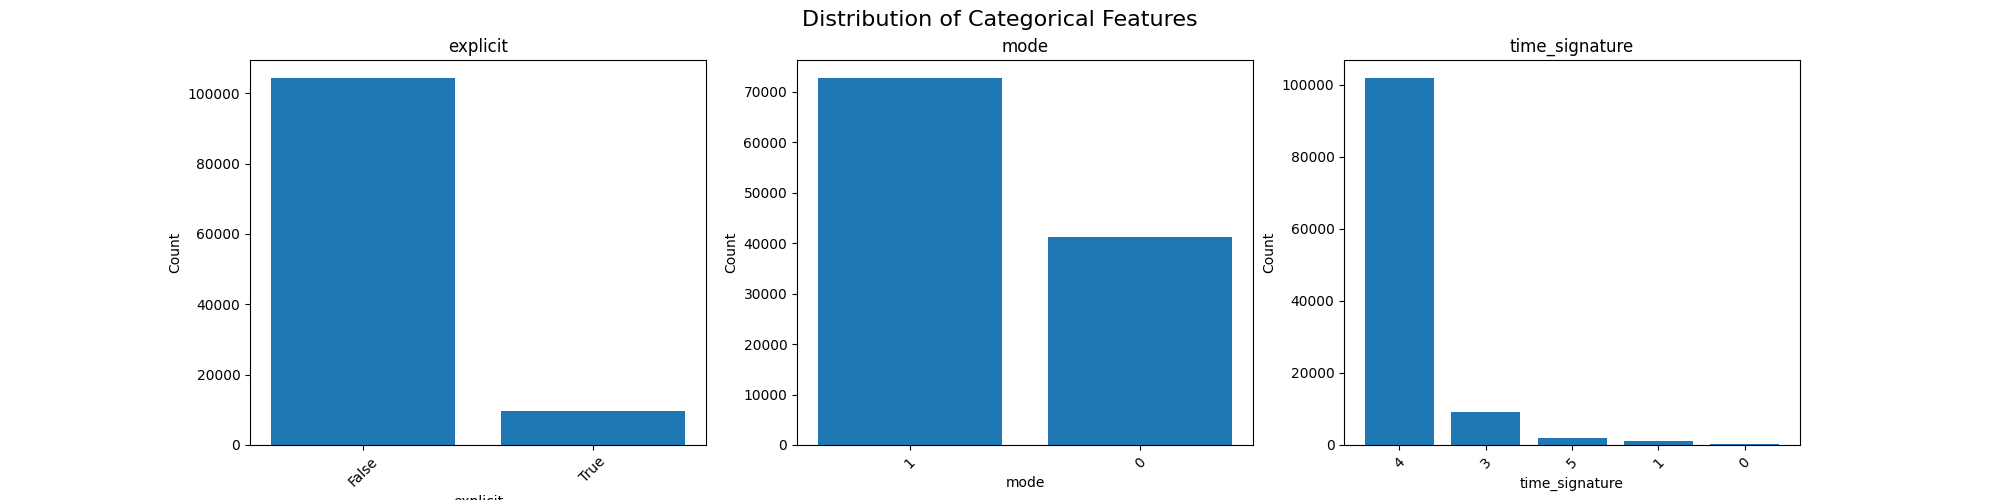
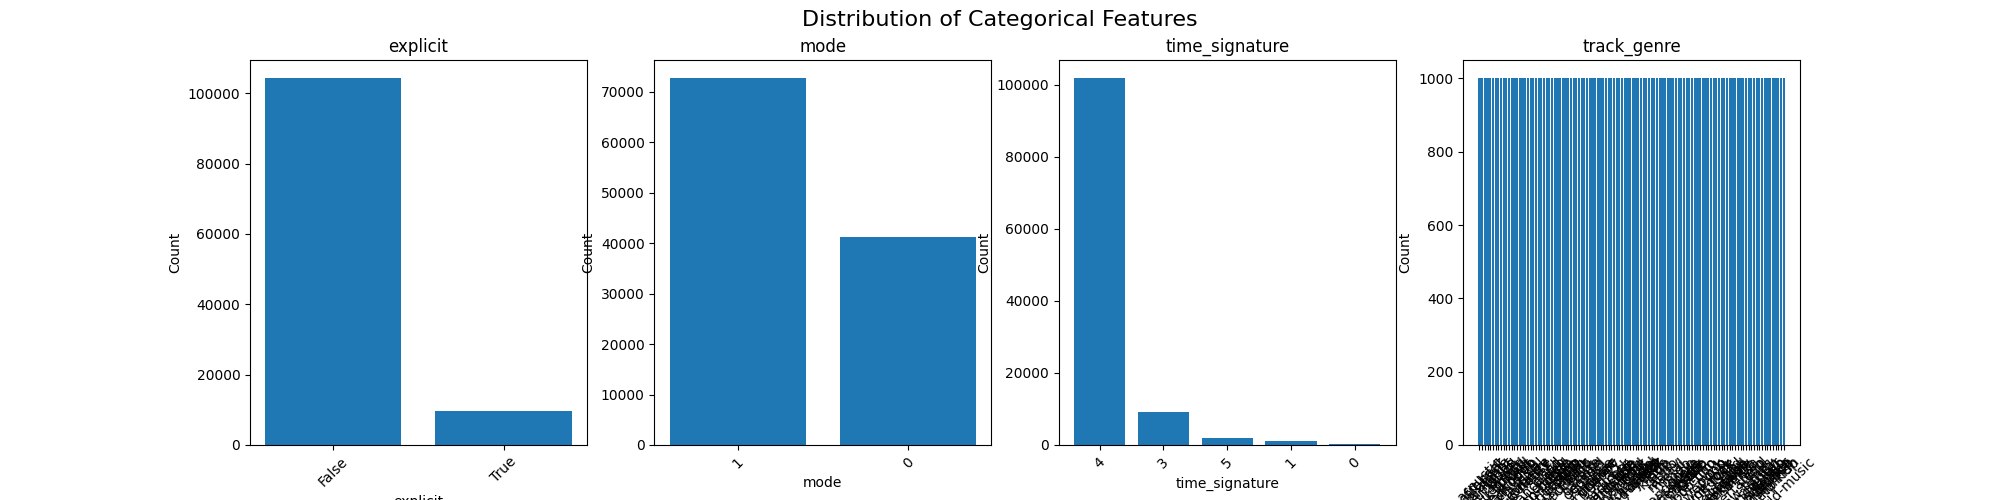
feat: plots added

diff --git a/assignments/1/a1.py b/assignments/1/a1.py
@@ -6,38 +6,52 @@ from models.knn.knn_suboptimal import KNN
 from models.linear_regression.linear_regression import PolynomialRegression
 from performance_measures.classification_metrics import Metrics
 
+
 def visualization_spotify():
-    df = pd.read_csv('data/interim/1/spotify/step1_drop_unnamed.csv')
-    numerical_features = ['popularity', 'duration_ms', 'danceability', 'energy', 'key', 'loudness', 'speechiness', 'acousticness', 'instrumentalness', 'liveness', 'valence', 'tempo']
-    categorical_features = ['explicit', 'mode', 'time_signature']
+    df = pd.read_csv("data/interim/1/spotify/step1_drop_unnamed.csv")
+    numerical_features = [
+        "popularity",
+        "duration_ms",
+        "danceability",
+        "energy",
+        "key",
+        "loudness",
+        "speechiness",
+        "acousticness",
+        "instrumentalness",
+        "liveness",
+        "valence",
+        "tempo",
+    ]
+    categorical_features = ["explicit", "mode", "time_signature", "track_genre"]
 
     # Histograms
     fig, axes = plt.subplots(4, 3, figsize=(20, 20))
-    fig.suptitle('Distribution of Numerical Features', fontsize=16)
+    fig.suptitle("Distribution of Numerical Features", fontsize=16)
     for i, feature in enumerate(numerical_features):
         row = i // 3
         col = i % 3
-        axes[row, col].hist(df[feature], bins=30, edgecolor='black')
+        axes[row, col].hist(df[feature], bins=30, edgecolor="black")
         axes[row, col].set_title(feature)
         axes[row, col].set_xlabel(feature)
-        axes[row, col].set_ylabel('Frequency')
-    plt.savefig('assignments/1/figures/histograms.png')
+        axes[row, col].set_ylabel("Frequency")
+    plt.savefig("assignments/1/figures/histograms.png")
 
     # Bar plots
-    fig, axes = plt.subplots(1, 3, figsize=(20, 5))
-    fig.suptitle('Distribution of Categorical Features', fontsize=16)
+    fig, axes = plt.subplots(1, 4, figsize=(20, 5))
+    fig.suptitle("Distribution of Categorical Features", fontsize=16)
     for i, feature in enumerate(categorical_features):
         value_counts = df[feature].value_counts()
         axes[i].bar(value_counts.index.astype(str), value_counts.values)
         axes[i].set_title(feature)
         axes[i].set_xlabel(feature)
-        axes[i].set_ylabel('Count')
-        axes[i].tick_params(axis='x', rotation=45)
-    plt.savefig('assignments/1/figures/barplots.png')
-    
+        axes[i].set_ylabel("Count")
+        axes[i].tick_params(axis="x", rotation=45)
+    plt.savefig("assignments/1/figures/barplots.png")
+
     # Violin plots
     fig, axes = plt.subplots(4, 3, figsize=(20, 20))
-    fig.suptitle('Violin Plots of Numerical Features', fontsize=16)
+    fig.suptitle("Violin Plots of Numerical Features", fontsize=16)
     for i, feature in enumerate(numerical_features):
         row = i // 3
         col = i % 3
@@ -45,38 +59,50 @@ def visualization_spotify():
         axes[row, col].set_title(feature)
         axes[row, col].set_xticks([])
     plt.tight_layout()
-    plt.savefig('assignments/1/figures/violin_plots.png')
+    plt.savefig("assignments/1/figures/violin_plots.png")
     plt.close()
 
     # Pair plots
-    pd.plotting.scatter_matrix(df[numerical_features], figsize=(80, 80), diagonal='hist', alpha=0.08)
-    plt.suptitle('Scatter Plot Matrix of Numerical Features', fontsize=30)
+    scatter = pd.plotting.scatter_matrix(
+        df[numerical_features], figsize=(40, 40), diagonal="hist", alpha=0.15
+    )
+    for ax in scatter.ravel():
+        ax.set_xlabel(ax.get_xlabel(), fontsize=20)
+        ax.set_ylabel(ax.get_ylabel(), fontsize=20)
+
+    plt.suptitle("Scatter Plot Matrix of Numerical Features", fontsize=25)
     plt.tight_layout()
-    plt.savefig('assignments/1/figures/pair_plots.png')
+    plt.savefig("assignments/1/figures/pair_plots.png")
     plt.close()
 
     # Correlation heatmap
     # ? https://stackoverflow.com/questions/33282368/plotting-a-2d-heatmap
     correlation_matrix = df[numerical_features].corr()
     fig, ax = plt.subplots(figsize=(12, 10))
-    im = ax.imshow(correlation_matrix, cmap='coolwarm')
+    im = ax.imshow(correlation_matrix, cmap="coolwarm")
     ax.set_xticks(range(len(numerical_features)))
     ax.set_yticks(range(len(numerical_features)))
-    ax.set_xticklabels(numerical_features, rotation=45, ha='right')
+    ax.set_xticklabels(numerical_features, rotation=45, ha="right")
     ax.set_yticklabels(numerical_features)
     plt.colorbar(im)
-    plt.title('Correlation Heatmap of Numerical Features')
+    plt.title("Correlation Heatmap of Numerical Features")
     for i in range(len(numerical_features)):
         for j in range(len(numerical_features)):
-            text = ax.text(j, i, f'{correlation_matrix.iloc[i, j]:.2f}',
-                           ha="center", va="center", color="black")
+            text = ax.text(
+                j,
+                i,
+                f"{correlation_matrix.iloc[i, j]:.2f}",
+                ha="center",
+                va="center",
+                color="black",
+            )
     plt.tight_layout()
-    plt.savefig('assignments/1/figures/correlation_heatmap.png')
+    plt.savefig("assignments/1/figures/correlation_heatmap.png")
     plt.close()
 
     # Box plots
     fig, axes = plt.subplots(4, 3, figsize=(20, 20))
-    fig.suptitle('Box Plots of Numerical Features', fontsize=16)
+    fig.suptitle("Box Plots of Numerical Features", fontsize=16)
     for i, feature in enumerate(numerical_features):
         row = i // 3
         col = i % 3
@@ -84,32 +110,63 @@ def visualization_spotify():
         axes[row, col].set_title(feature)
         axes[row, col].set_xticks([])
     plt.tight_layout()
-    plt.savefig('assignments/1/figures/box_plots.png')
+    plt.savefig("assignments/1/figures/box_plots.png")
     plt.close()
 
+    genre_mapping = {genre: idx for idx, genre in enumerate(df["track_genre"].unique())}
+    df["genre_mapped"] = df["track_genre"].map(genre_mapping)
+
+    # Scatter plots
+    scatter_plots = [
+        ("danceability", "energy"),
+        ("danceability", "valence"),
+        ("loudness", "energy"),
+        ("acousticness", "instrumentalness"),
+        ("tempo", "energy"),
+    ]
+
+    for x_feature, y_feature in scatter_plots:
+        plt.figure(figsize=(10, 6))
+        scatter = plt.scatter(
+            df[x_feature], df[y_feature], c=df["genre_mapped"], alpha=0.1, cmap="magma"
+        )
+        plt.xlabel(x_feature)
+        plt.ylabel(y_feature)
+        plt.title(
+            f"{x_feature.capitalize()} vs {y_feature.capitalize()} (Colored by Genre)"
+        )
+        plt.colorbar(scatter, label="Track Genre")
+        plt.savefig(f"assignments/1/figures/scatter_{x_feature}_{y_feature}.png")
+        plt.close()
+
+
 def knn_on_spotify() -> None:
-    dataset_dir="data/interim/1/spotify/split"
+    dataset_dir = "data/interim/1/spotify/split"
     for x in {"train", "test", "validate"}:
         globals()[f"data_{x}"] = pd.read_csv(f"{dataset_dir}/{x}.csv")
-        globals()[f"X_{x}"] = globals()[f"data_{x}"].drop(columns=["track_genre"]).to_numpy()
+        globals()[f"X_{x}"] = (
+            globals()[f"data_{x}"].drop(columns=["track_genre"]).to_numpy()
+        )
         globals()[f"y_{x}"] = globals()[f"data_{x}"]["track_genre"].to_numpy()
 
     classifier = KNN(k=30, distance_metric="manhattan")
     classifier.fit(X_train, y_train)
     y_pred = classifier.predict(X_test)
-    Metrics(y_true=y_test, y_pred=y_pred, task='regression').print_metrics()
+    Metrics(y_true=y_test, y_pred=y_pred, task="regression").print_metrics()
+
 
 def regression() -> None:
-    dataset_dir="data/interim/1/linreg"
+    dataset_dir = "data/interim/1/linreg"
     for x in {"train", "test", "validate"}:
         globals()[f"data_{x}"] = pd.read_csv(f"{dataset_dir}/{x}.csv")
-        globals()[f"X_{x}"] = globals()[f"data_{x}"]['x'].to_numpy()
-        globals()[f"y_{x}"] = globals()[f"data_{x}"]['y'].to_numpy()
+        globals()[f"X_{x}"] = globals()[f"data_{x}"]["x"].to_numpy()
+        globals()[f"y_{x}"] = globals()[f"data_{x}"]["y"].to_numpy()
 
     model = PolynomialRegression(degree=2)
     model.fit(X_train, y_train)
     y_pred = model.predict(X_validate)
-    Metrics(y_true=y_validate, y_pred=y_pred, task='regression').print_metrics()
+    Metrics(y_true=y_validate, y_pred=y_pred, task="regression").print_metrics()
+
 
 if __name__ == "__main__":
     start_time = time.time()
